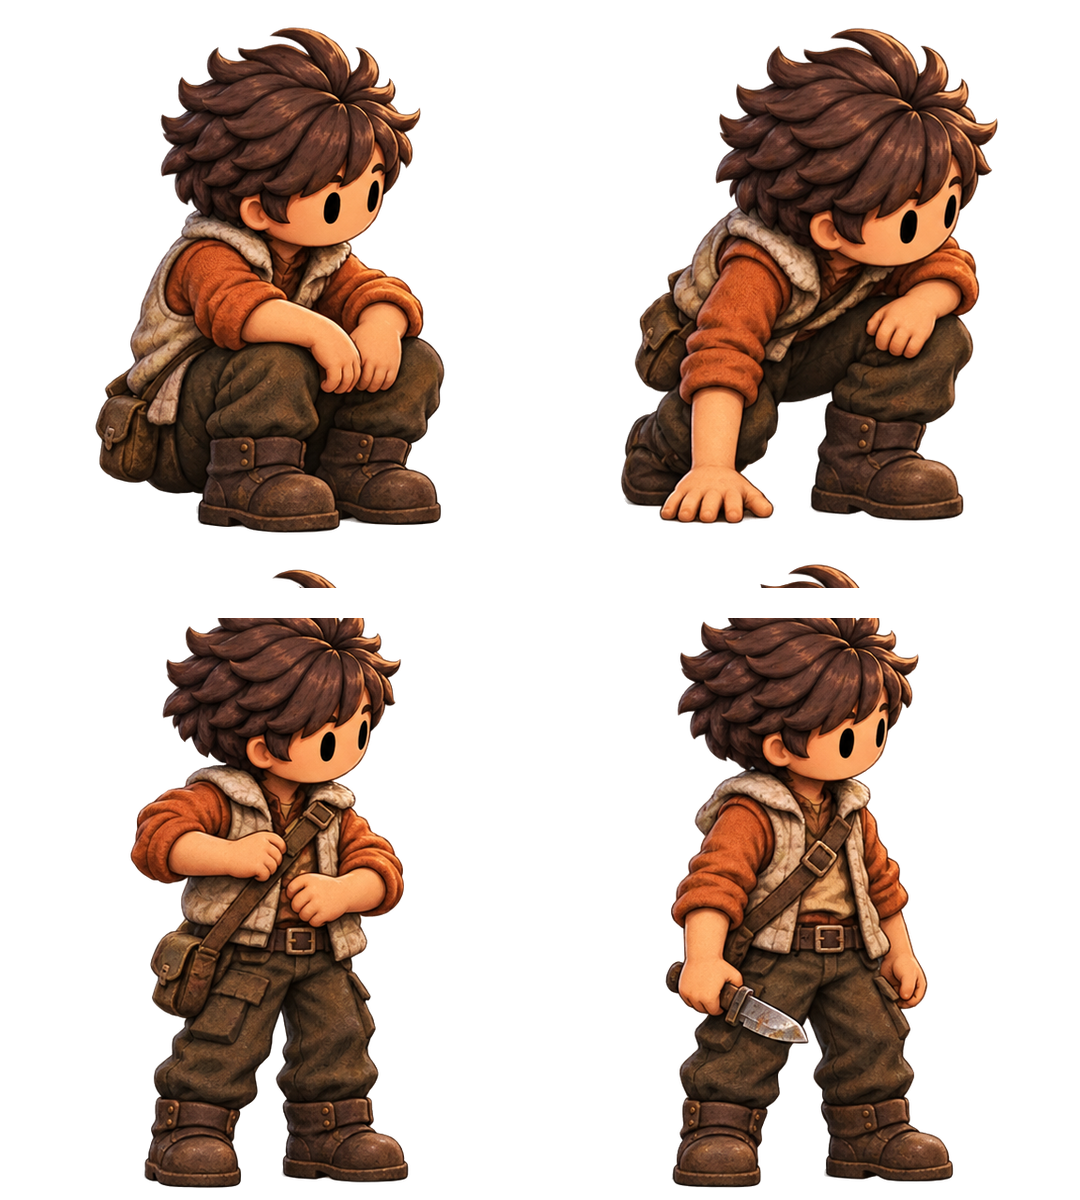
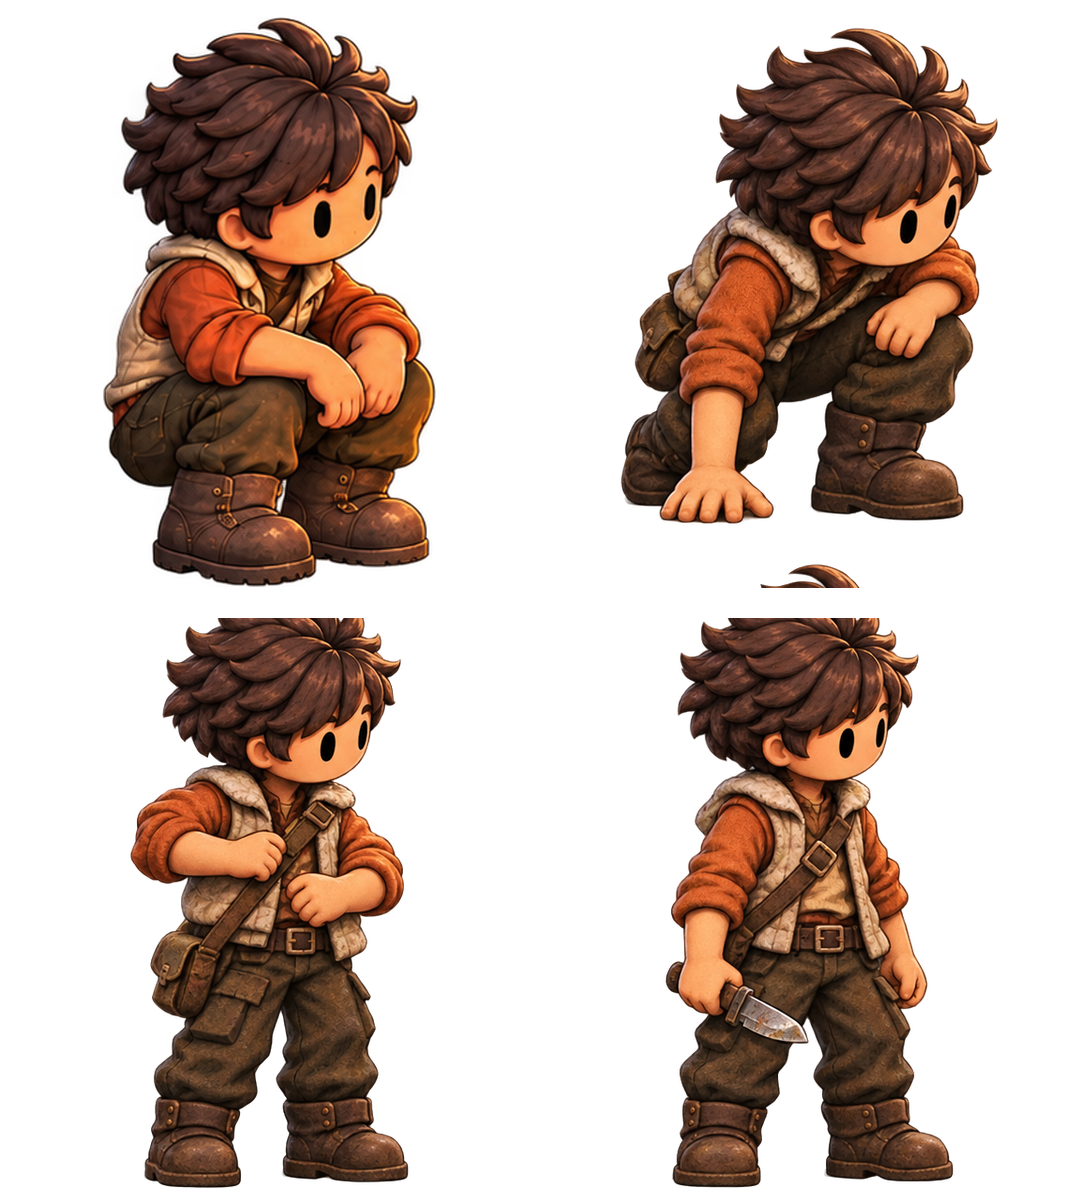
Match original survivor art and remove video duplicate using clean camp master

Changed region(s): [[0.0917, 0.0, 0.4278, 0.4933]]

diff --git a/src/SurvivorPreparation.tsx b/src/SurvivorPreparation.tsx
@@ -4,7 +4,7 @@ import {Animated,Easing,Image,Platform,StyleSheet,View,type ImageSourcePropType}
 /**
  * The original survivor is baked into the camp video, not a separate view.
  * Overlay the retouched, feathered scene pixels FIRST; only then draw one
- * aligned, high-resolution survivor from four individually authored poses.
+ * aligned, high-resolution survivor from the approved original seated frame and three full-resolution preparation poses.
  *
  * Both textures are preloaded before replacing the video survivor. A slow
  * device never sees two characters or an empty loading pose. This is a
@@ -12,7 +12,7 @@ import {Animated,Easing,Image,Platform,StyleSheet,View,type ImageSourcePropType}
  */
 const SCENE={width:1536,height:864};
 const CELL={width:540,height:600};
-const FOOT={x:497,y:725};
+const FOOT={x:497,y:755};
 const CHARACTER_SCALE=.65;
 const artwork:ImageSourcePropType=Platform.OS==='web'
  ? {uri:'/survival/start-prepare-v2/preparation-poses.png'}
